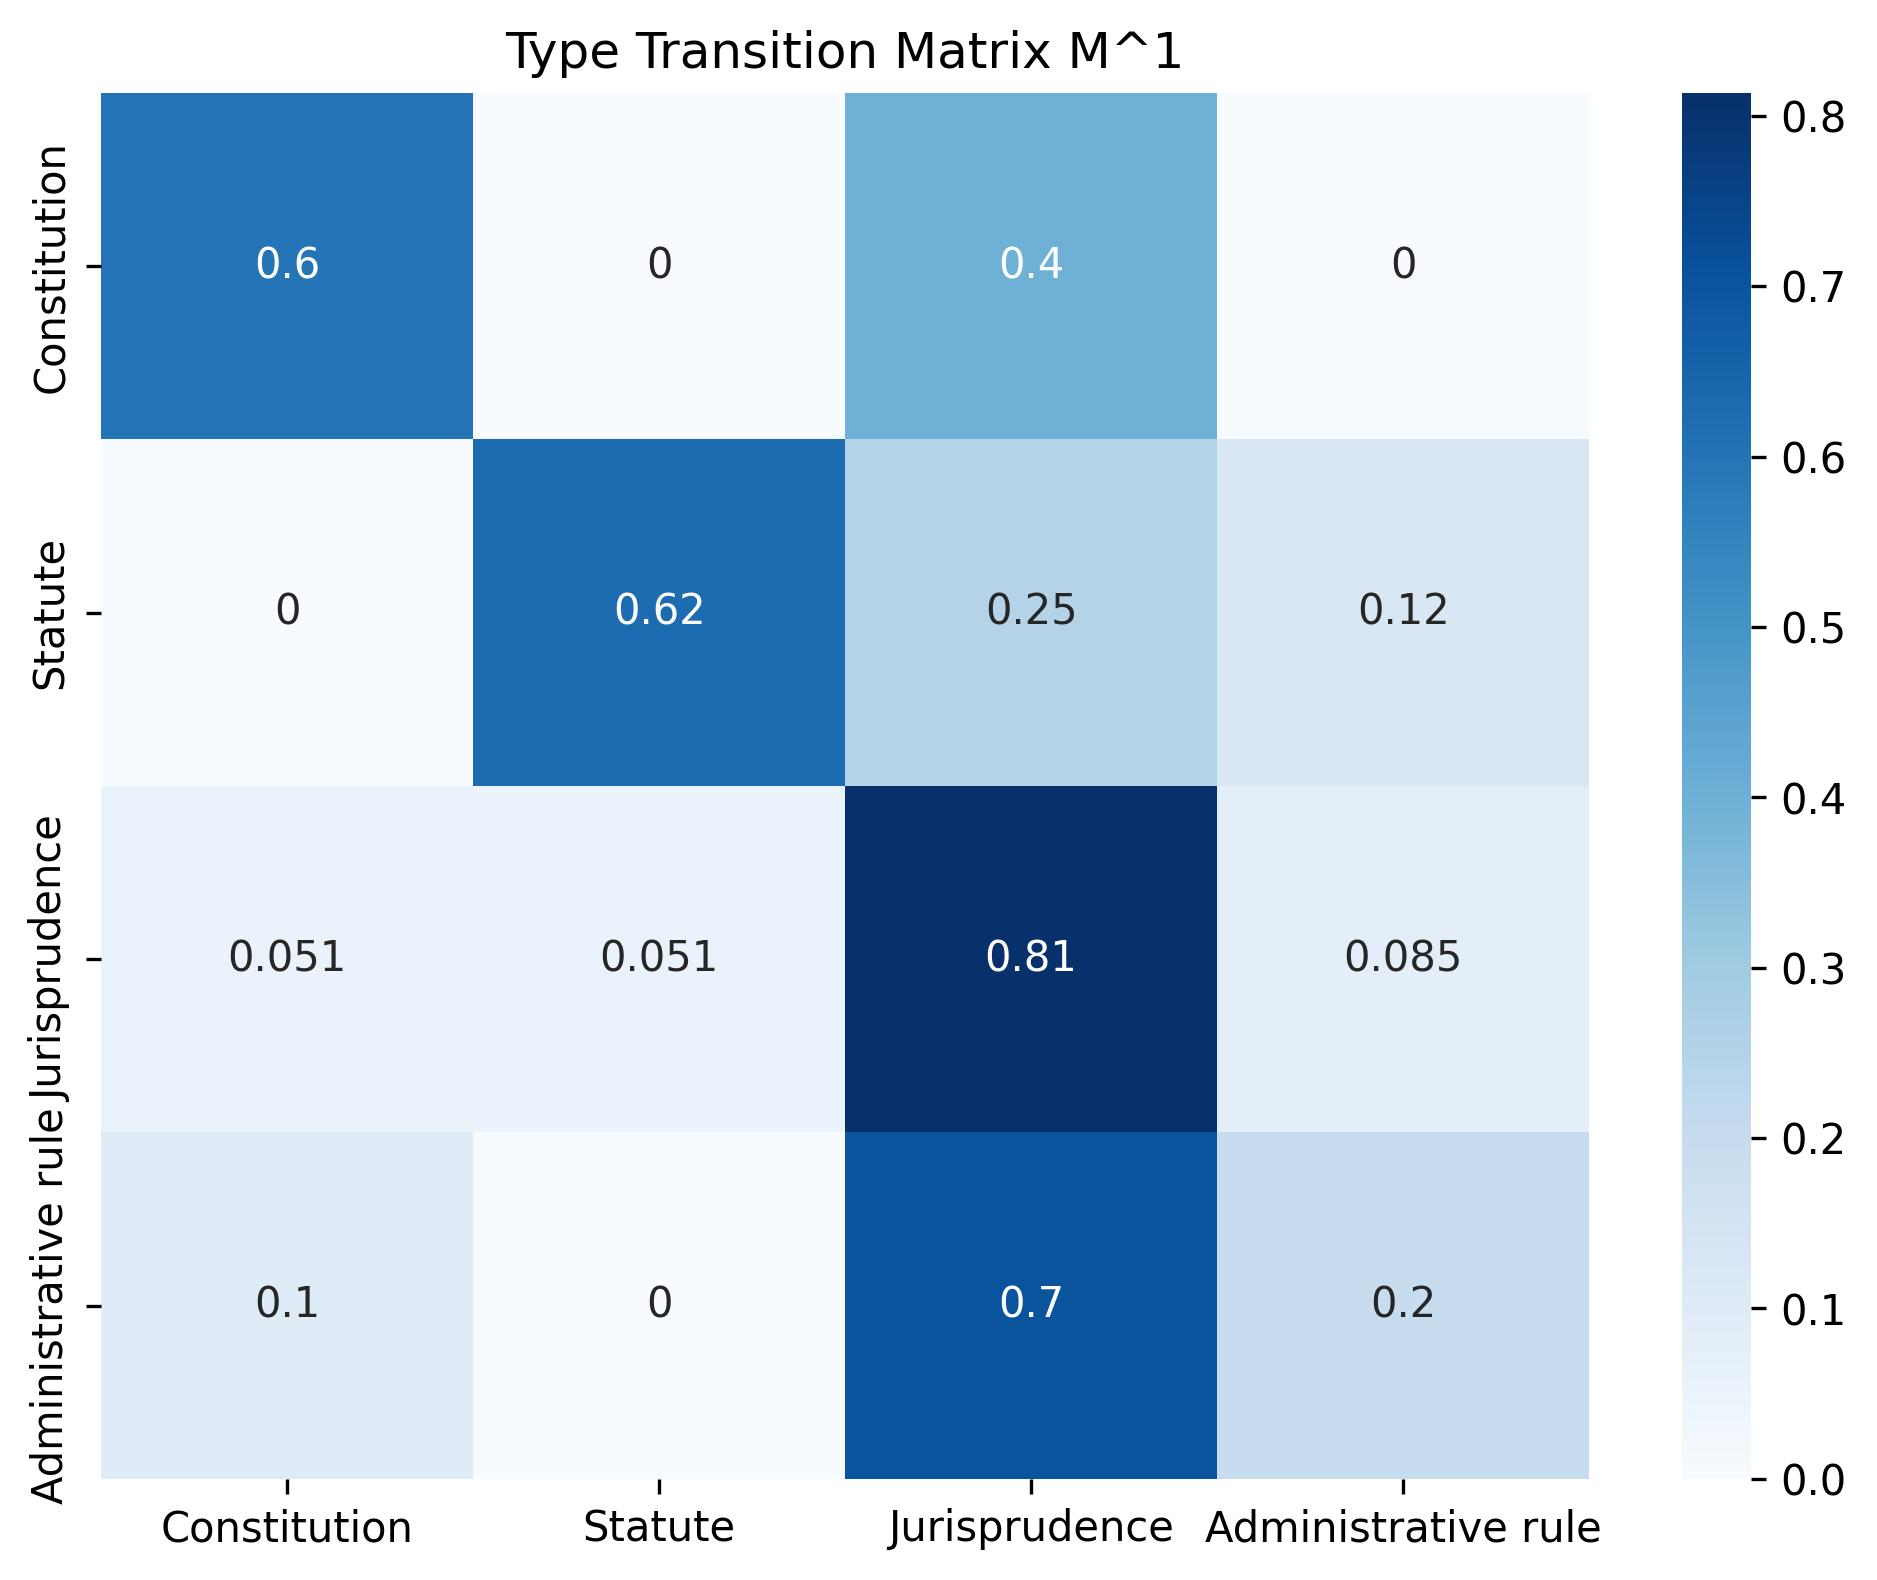
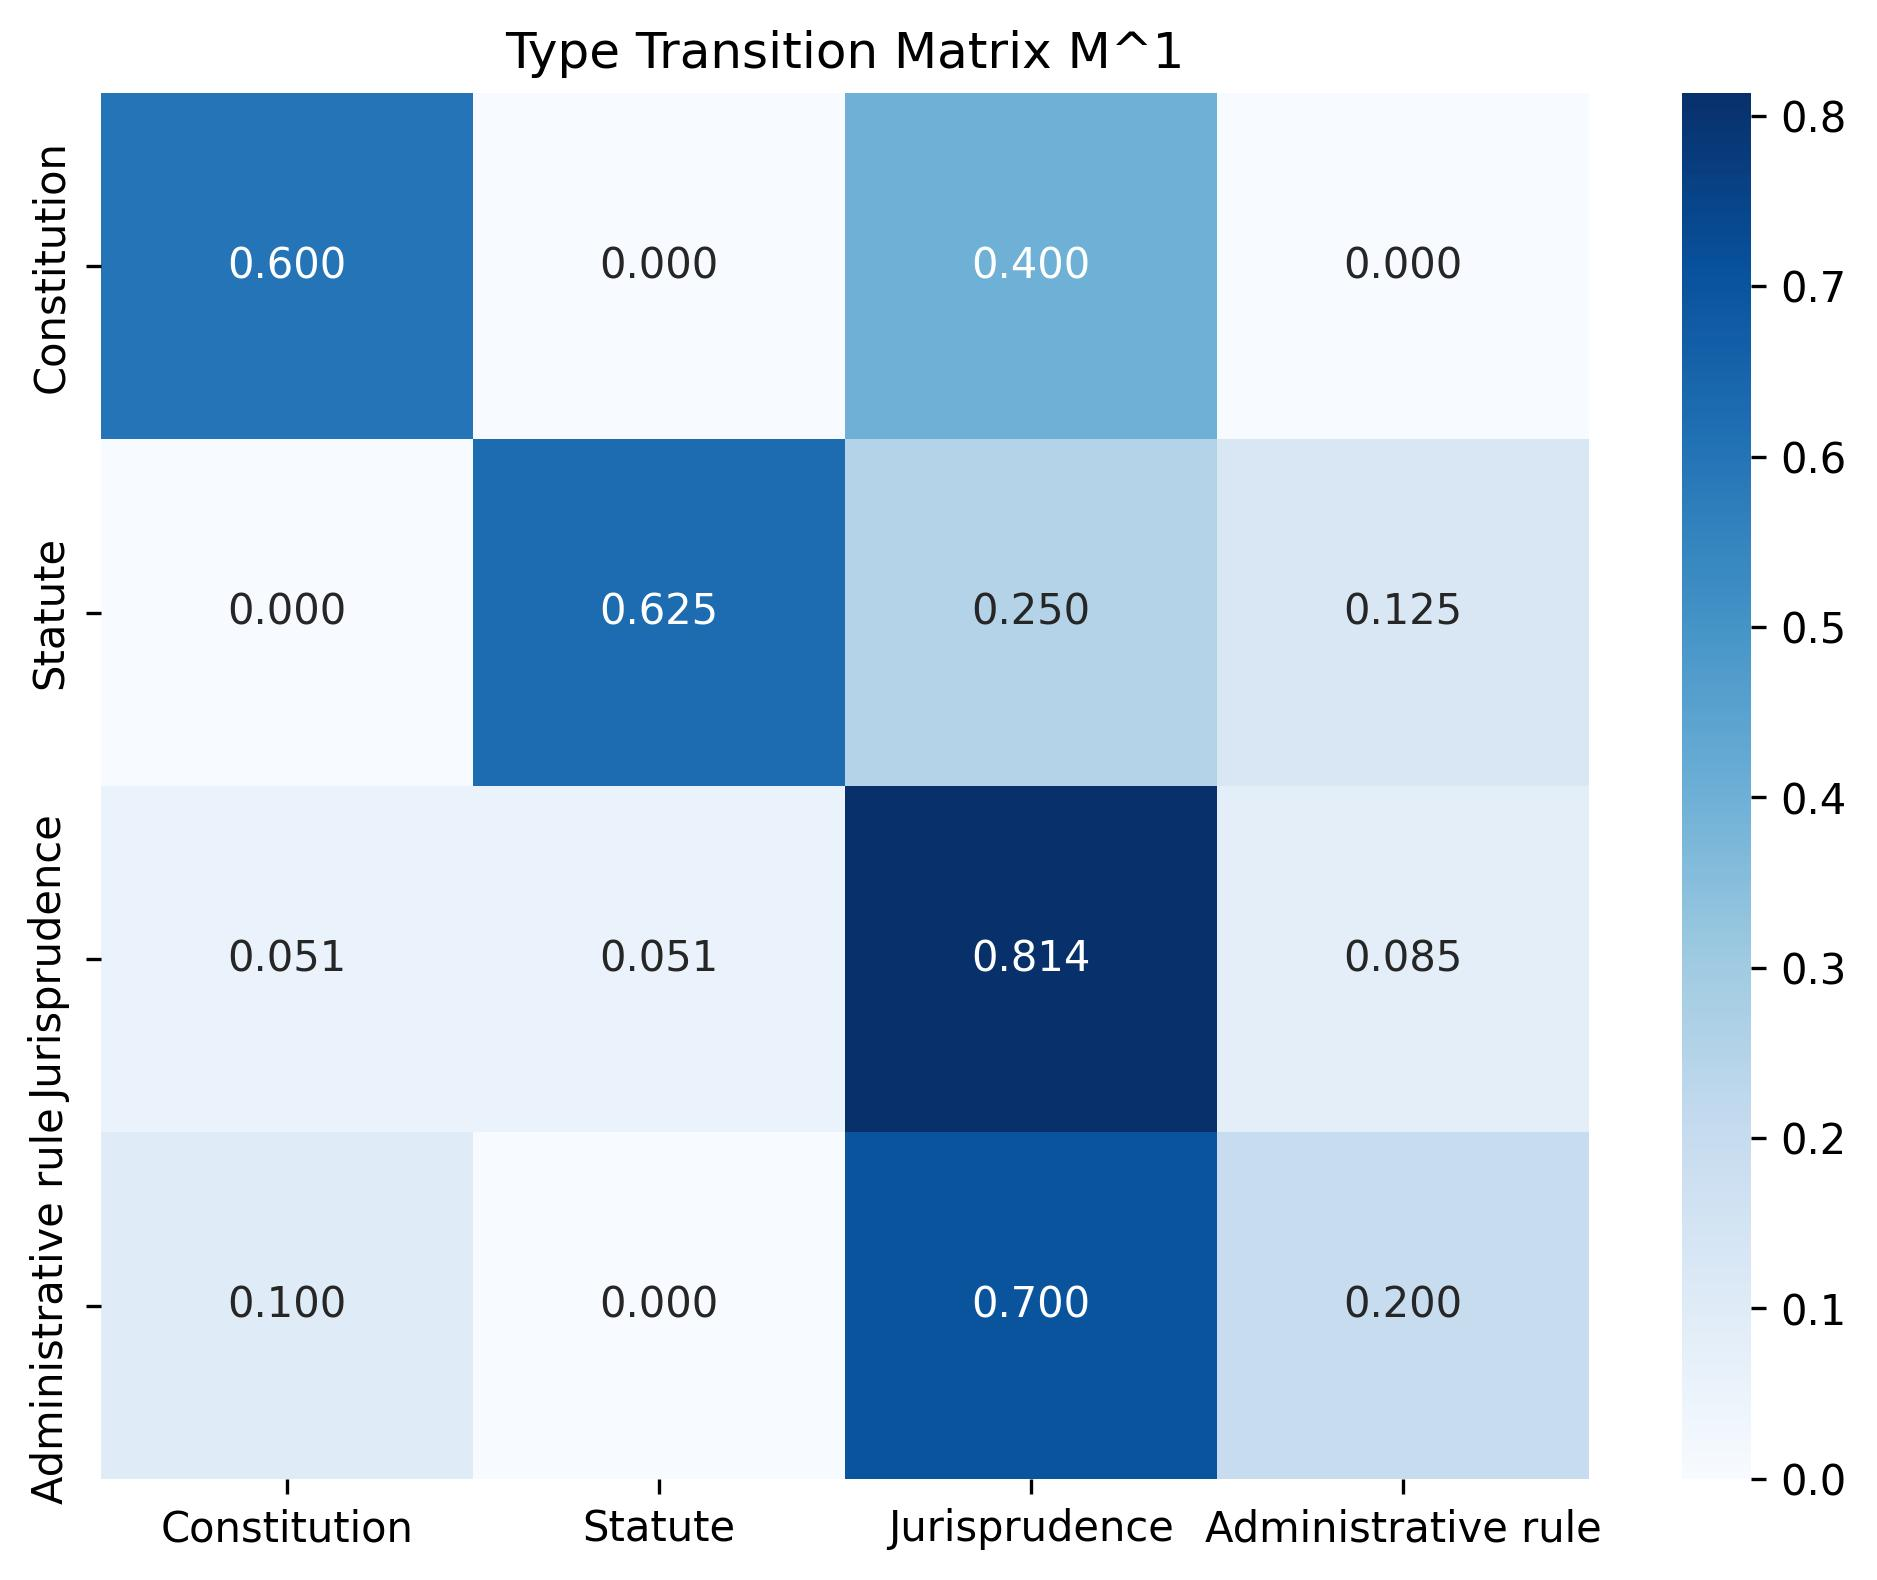
README file

diff --git a/markov.py b/markov.py
@@ -112,7 +112,7 @@ def calculate_multi_step_matrix(chain, steps=2, predefined_states=None):
     
     return result_matrix, states, state_to_idx, idx_to_state
 
-def print_markov_matrix(chain, predefined_states=None, title="Markov Matrix", heatmap=True, save_path=None, max_rows=None, max_cols=None):
+def print_markov_matrix(chain, predefined_states=None, title="Markov Matrix", heatmap=True, save_path=None, max_rows=None, max_cols=None, print_full=False, chunk_size=20):
     # Use predefined states if given; else extract from chain
     if predefined_states:
         states = predefined_states
@@ -156,21 +156,44 @@ def print_markov_matrix(chain, predefined_states=None, title="Markov Matrix", he
         # Apply same order to both rows and columns
         df = df.loc[sorted_states, sorted_states]
     
-    # Limit rows and columns if specified
-    # Keep rows and columns aligned (same states in same order)
-    if max_rows is not None or max_cols is not None:
+    # Store full dataframe for chunked printing
+    df_full = df.copy()
+    
+    # Limit rows and columns if specified (and not printing full)
+    if not print_full and (max_rows is not None or max_cols is not None):
+        # Keep rows and columns aligned (same states in same order)
         # Use the minimum of max_rows and max_cols to keep them aligned
         # If only one is specified, use that value for both
         limit = max_rows if max_cols is None else (max_cols if max_rows is None else min(max_rows, max_cols))
         df = df.iloc[:limit, :limit]
     
     print(f"\n=== {title} ===")
-    print(df)
+    if print_full:
+        # Print full matrix in chunks
+        total_rows = len(df_full)
+        total_cols = len(df_full.columns)
+        print(f"Full matrix size: {total_rows} rows × {total_cols} columns")
+        print("Printing in chunks:\n")
+        
+        # Print row chunks
+        for row_start in range(0, total_rows, chunk_size):
+            row_end = min(row_start + chunk_size, total_rows)
+            # Print column chunks for each row chunk
+            for col_start in range(0, total_cols, chunk_size):
+                col_end = min(col_start + chunk_size, total_cols)
+                print(f"\n--- Rows {row_start+1}-{row_end} / Columns {col_start+1}-{col_end} ---")
+                chunk_df = df_full.iloc[row_start:row_end, col_start:col_end]
+                print(chunk_df)
+                print()
+    else:
+        print(df)
     
     # Optional heatmap visualization
     if heatmap:
-        plt.figure(figsize=(8,6))
-        sns.heatmap(df, annot=True, cmap="Blues")
+        # Use limited df for heatmap to keep it readable
+        heatmap_df = df if not print_full else df_full.iloc[:50, :50]  # Limit heatmap to 50x50 for readability
+        plt.figure(figsize=(max(8, len(heatmap_df.columns)*0.5), max(6, len(heatmap_df)*0.3)))
+        sns.heatmap(heatmap_df, annot=True, cmap="Blues", fmt='.3f')
         plt.title(title)
         if save_path:
             plt.savefig(save_path, format='jpg', dpi=300, bbox_inches='tight')
@@ -299,7 +322,7 @@ def main():
     print("\n" + "="*70)
     print("STEP 1: Transition Matrices")
     print("="*70)
-    print_markov_matrix(titles_mc, title="Title Transition Matrix M^1", max_rows=10, max_cols=10, save_path="titles_heatmap.jpg")
+    print_markov_matrix(titles_mc, title="Title Transition Matrix M^1", print_full=True, chunk_size=20, save_path="titles_heatmap.jpg")
     print_markov_matrix(types_mc, predefined_states=["Constitution", "Statute", "Jurisprudence", "Administrative rule"], 
                         title="Type Transition Matrix M^1", save_path="types_heatmap.jpg")
     
